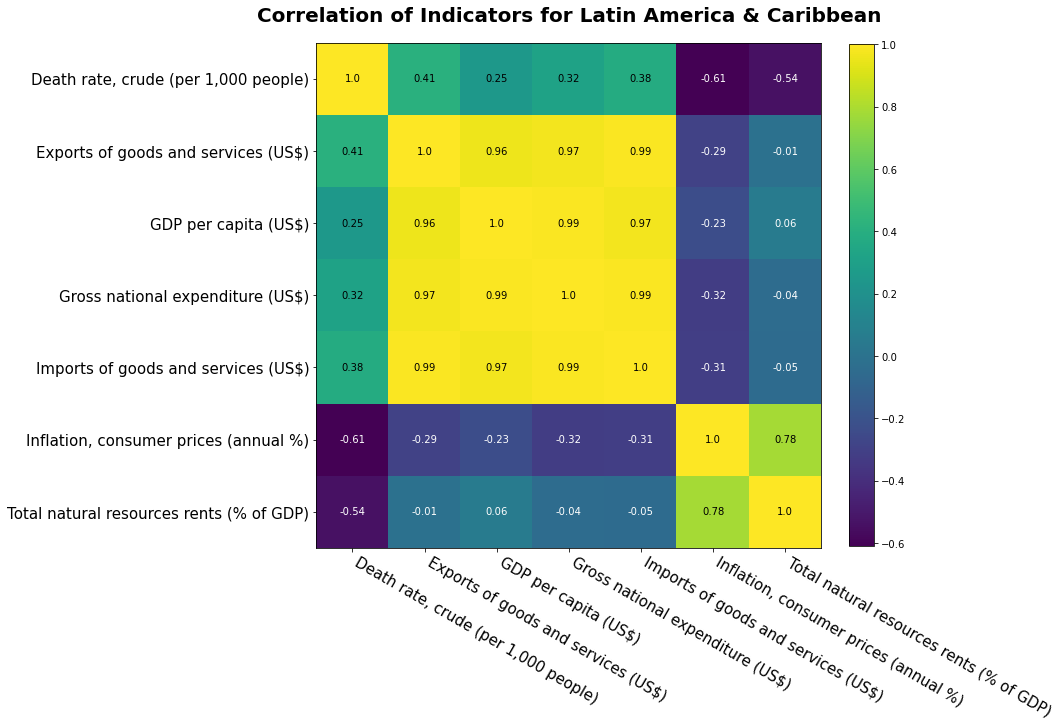
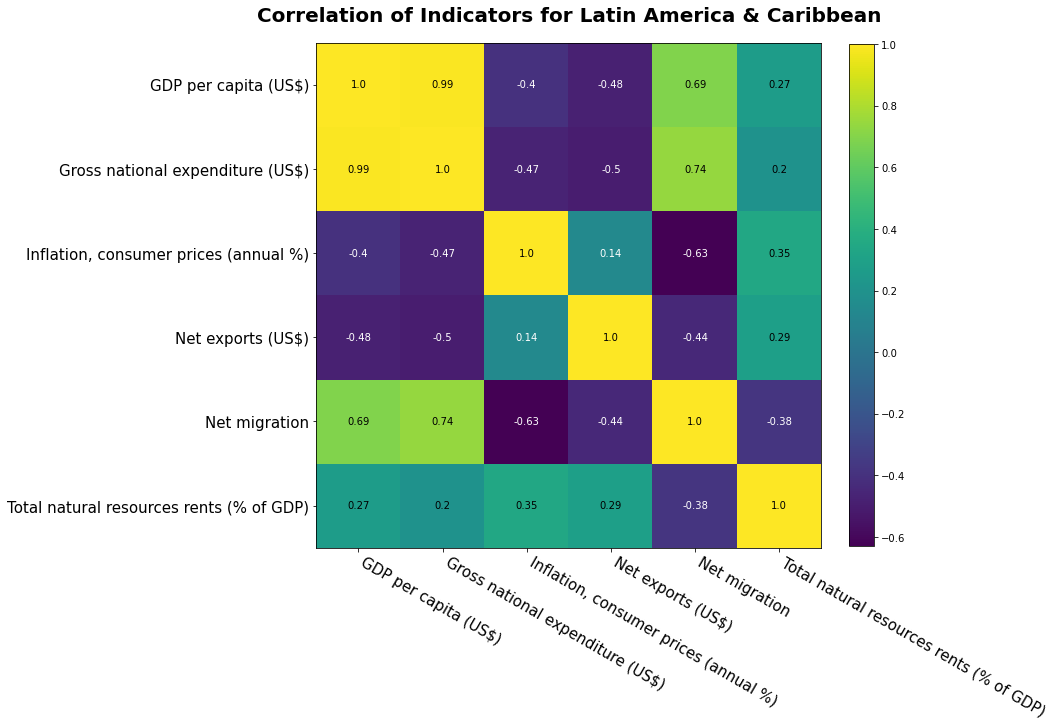
Create a new 'Net exports' indicator and update the plots

diff --git a/main.py b/main.py
@@ -88,6 +88,24 @@ def get_dataframes(filename):
     df_transposed = df.transpose().sort_index()
     df_transposed.index = pd.to_datetime(df_transposed.index, format="%Y")
 
+    # Define a new column showing the net exports (Balance of Trade)
+    imports = df_transposed.xs("Imports of goods and services (US$)",
+                               axis=1, level="Series Name")
+    exports = df_transposed.xs("Exports of goods and services (US$)",
+                               axis=1, level="Series Name")
+    net_exports = exports - imports
+    net_exports.columns = pd.MultiIndex.from_product(
+        [net_exports.columns, ['Net exports (US$)']],
+        names=["Region", "Series Name"])
+
+    # Add the new Net exports column to the transposed dataframe and
+    # remove the import and export columns
+    df_transposed = pd.concat([df_transposed, net_exports], axis=1) \
+        .sort_index(level="Region", axis=1) \
+        .drop(columns=["Imports of goods and services (US$)",
+                       "Exports of goods and services (US$)"],
+              level="Series Name")
+
     return df, df_transposed
 
 
@@ -304,7 +322,7 @@ def plot_line_graphs(df, columns, title, xlabel):
         df_to_plot = selected_df.xs(series_name, level="Series Name", axis=1)
         ax = axes[i, j]
 
-        df_to_plot.plot(ax=ax, legend=False, grid=True, xlim=("2001", "2020"),
+        df_to_plot.plot(ax=ax, legend=False, grid=True, xlim=("1996", "2020"),
                         linewidth=4, x_compat=True)
 
         ax.set_ylabel(series_name, fontsize=20)
@@ -320,8 +338,8 @@ def plot_line_graphs(df, columns, title, xlabel):
 
     # Display one legend for all the subplots
     handles, labels = fig.axes[0].get_legend_handles_labels()
-    fig.legend(handles, labels, loc='upper center', ncols=4, fontsize=18,
-               bbox_to_anchor=[0.5, 1.04], framealpha=0.5)
+    fig.legend(handles, labels, loc='upper center', ncols=3, fontsize=18,
+               bbox_to_anchor=[0.5, 1.07])
 
     plt.savefig("plots/line_plot.png", bbox_inches='tight')
 
@@ -347,16 +365,16 @@ for region in corr.columns.levels[0]:
 # Plot line graph showing the trend of indicators across different regions
 line_plot_title = "Trend of different indicators in the different regions"
 columns_to_plot = [
-    'GDP per capita (US$)',
-    'Death rate, crude (per 1,000 people)',
-    'Total natural resources rents (% of GDP)',
-    'Gross national expenditure (US$)',
-    'Exports of goods and services (US$)',
-    'Imports of goods and services (US$)']
+    "Total natural resources rents (% of GDP)",
+    "Inflation, consumer prices (annual %)",
+    "GDP per capita (US$)",
+    "Net migration",
+    "Net exports (US$)",
+    "Gross national expenditure (US$)"]
 plot_line_graphs(df_transposed, columns_to_plot, line_plot_title, "Years")
 
 # Make boxplot of inflation across different regions for the observed years
 plot_boxplot(df_transposed.xs(
-    "Inflation, consumer prices (annual %)", axis=1, level=1),
+    "Inflation, consumer prices (annual %)", axis=1, level="Series Name"),
     "Inflation Percentage for Each Region",
     "Inflation, consumer prices (annual %)")
